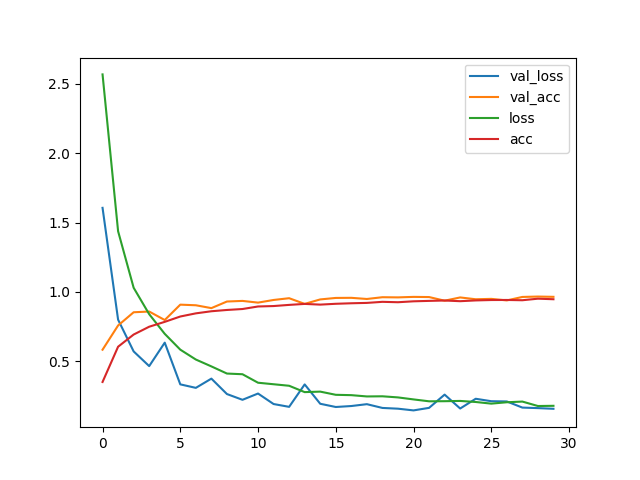
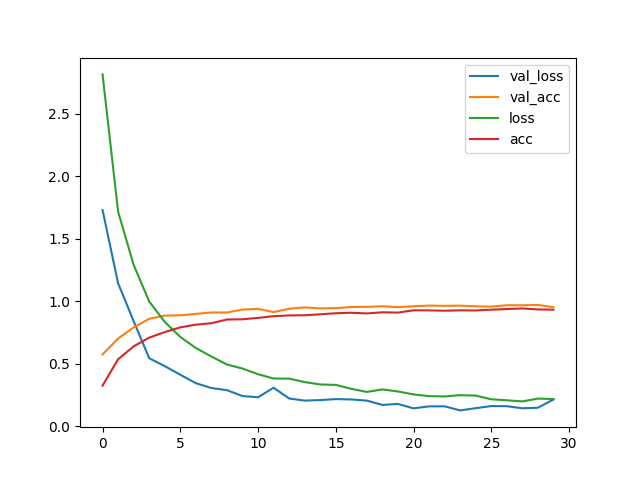
train_test_split

diff --git a/traffic/CT.py b/traffic/CT.py
@@ -6,6 +6,7 @@ from keras.layers.core import Activation, Flatten, Dense, Dropout
 from keras import backend as K
 from keras.preprocessing.image import img_to_array, load_img
 from keras.utils import to_categorical
+from sklearn.model_selection import train_test_split
 
 from imutils import paths
 import matplotlib
@@ -51,7 +52,7 @@ def load_data(path):
     images = np.asarray(images, dtype="float") / 255.0
     labels = np.array(labels)
 
-    labels = to_categorical(labels, num_classes=CLASS_NUM)                         
+    labels = to_categorical(labels, num_classes=CLASS_NUM) # one-hot编码                      
     return images, labels
 
 
@@ -95,8 +96,10 @@ def create_model():
 训练模型，先加载数据，使用图像增强来增加数据集数量，
 """
 def train():
-    trainX, trainY = load_data('./data/train/')
-    testX, testY = load_data('./data/test/')
+    x, y = load_data('./data/train/')
+    
+    x_train, x_test, y_train, y_test = train_test_split(x, y, test_size=0.3, random_state=0)
+    # x_test, y_test = load_data('./data/test/')
 
     datagen = ImageDataGenerator(rotation_range=30, width_shift_range=0.1,
             height_shift_range=0.1, shear_range=0.2, zoom_range=0.2,
@@ -109,8 +112,8 @@ def train():
     model.compile(loss="categorical_crossentropy", optimizer='rmsprop',
         metrics=["accuracy"])
 
-    history = model.fit_generator(datagen.flow(trainX, trainY, batch_size=BATCH_SIZE),
-        validation_data=(testX, testY), steps_per_epoch=len(trainX) // BATCH_SIZE,
+    history = model.fit_generator(datagen.flow(x_train, y_train, batch_size=BATCH_SIZE),
+        validation_data=(x_test, y_test), steps_per_epoch=len(x_train) // BATCH_SIZE,
         epochs=EPOCHS, verbose=1)
 
     model.save('traffic_with_dropout.h5')
